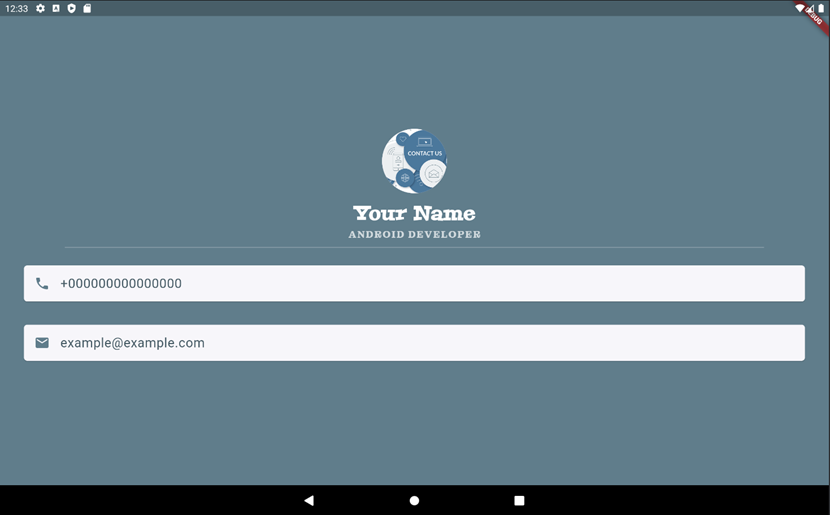
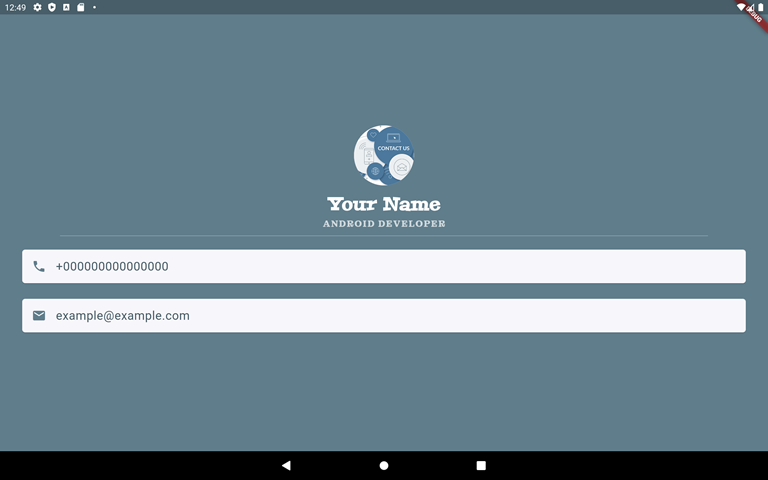
Add files via upload

diff --git a/lib/main.dart b/lib/main.dart
@@ -66,7 +66,7 @@ class MyApp extends StatelessWidget {
                 child: Card(
                   color: Colors.white,
                   margin: const EdgeInsets.symmetric(
-                    vertical: 10.0,
+                    vertical: 5.0,
                     horizontal: 25.0,
                   ),
                   shape: RoundedRectangleBorder(
@@ -105,7 +105,7 @@ class MyApp extends StatelessWidget {
                 child: Card(
                   color: Colors.white,
                   margin: const EdgeInsets.symmetric(
-                    vertical: 10.0,
+                    vertical: 5.0,
                     horizontal: 25.0,
                   ),
                   shape: RoundedRectangleBorder(

diff --git a/README.md b/README.md
@@ -1,6 +1,6 @@
 # Contact Us Page Android
 
-Simple `Dart` `Flutter` "My Contact" page front-end  for android app.
+Simple `Dart` `Flutter` "My Contact" page for android app.
 
 ### Phone:
 
